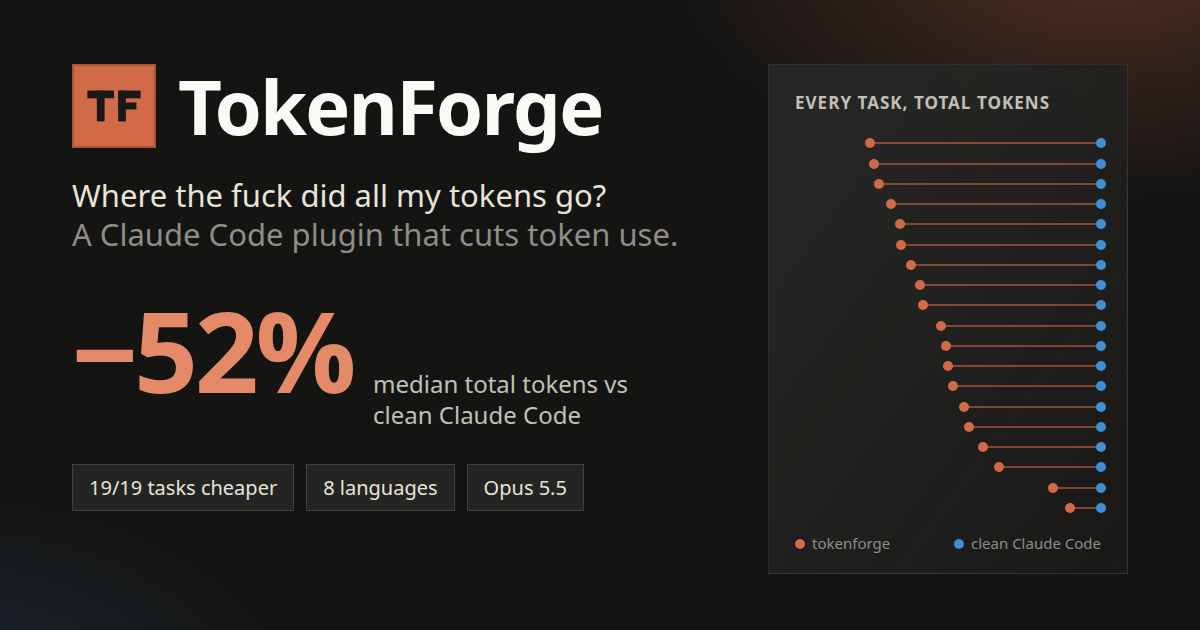
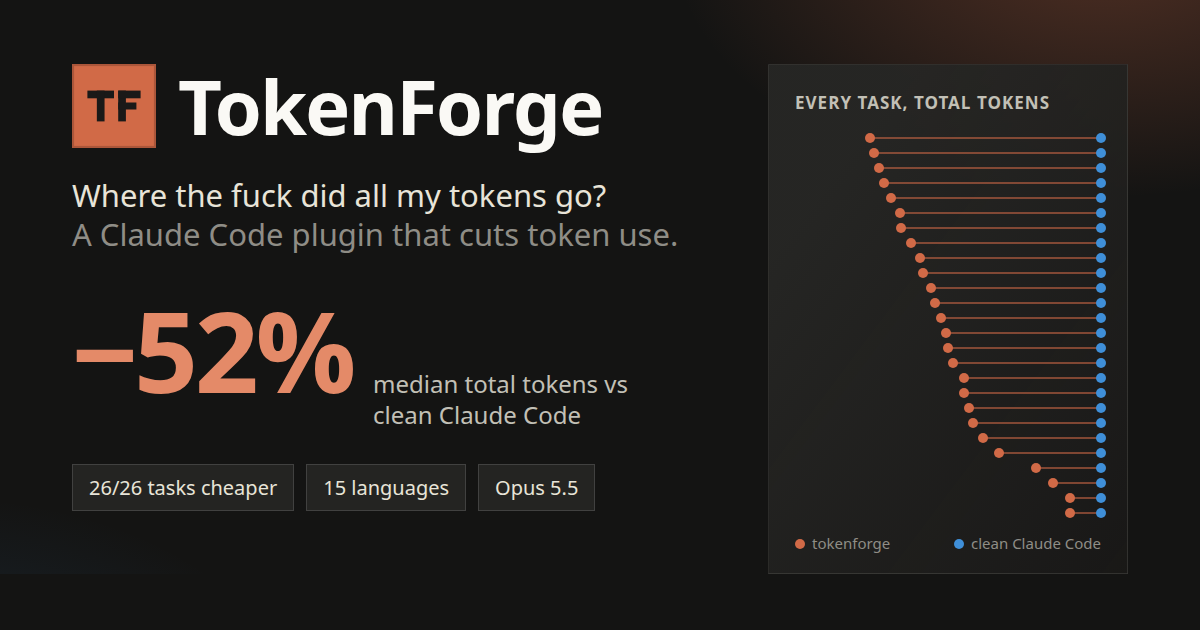
Site: 26 tasks, 16 from-scratch projects in 15 languages; regenerate data and preview image; note excluded Ruby task

Changed region(s): [[0.7092, 0.2111, 0.925, 0.8444], [0.2467, 0.754, 0.4933, 0.8143], [0.0617, 0.754, 0.1233, 0.7841]]

diff --git a/src/pages/home.ts b/src/pages/home.ts
@@ -13,6 +13,7 @@ export function home(view: HTMLElement): void {
   const off = data.lean.find((l) => l.level === 'off')?.tokens ?? 0;
   const bal = data.lean.find((l) => l.level === 'balanced')?.tokens ?? 0;
   const worse = data.tasks.filter((t) => t.qualityDiff < 0);
+  const scratchLangs = new Set(data.tasks.filter((t) => t.group === 'scratch').map((t) => t.language)).size;
 
   view.innerHTML = `
   <header class="phero" aria-labelledby="hero-title">
@@ -75,7 +76,7 @@ export function home(view: HTMLElement): void {
 
   <section class="psec" id="numbers">
     <p class="plabel">Benchmark</p>
-    <h2>Measured on 19 real tasks, not estimated.</h2>
+    <h2>Measured on ${a.tasks} real tasks, not estimated.</h2>
     <div class="pstats">
       <div class="hi"><div class="n">${Math.round(a.medianSavings)}%</div><div class="l">fewer tokens (median)</div></div>
       <div><div class="n">${a.tasksCheaper}/${a.tasks}</div><div class="l">tasks cheaper</div></div>
@@ -92,7 +93,7 @@ export function home(view: HTMLElement): void {
       <div class="chart-box" id="db-existing"></div>
       <details class="data"><summary>Data table: all ${a.tasks} tasks</summary>${resultsTable()}</details>
     </article>
-    <p class="pcap">${a.tasks} tasks, ${a.scratchTasks} from-scratch projects in 8 languages. ${MODEL_NAME} on both sides, checked in every API response. Medians of 1–3 runs per side.${worse.length ? ` Quality was lower on one task (${worse.map((t) => t.label).join(', ')}): every hidden test passes, the design checks score lower.` : ''} <a href="#/benchmark">Method and caveats →</a></p>
+    <p class="pcap">${a.tasks} tasks, ${a.scratchTasks} from-scratch projects in ${scratchLangs} languages. ${MODEL_NAME} on both sides, checked in every API response. Medians of 1–3 runs per side.${worse.length ? ` Quality was lower on one task (${worse.map((t) => t.label).join(', ')}): every hidden test passes, the design checks score lower.` : ''} <a href="#/benchmark">Method and caveats →</a></p>
   </section>
 
   <section class="psec" id="install">

diff --git a/src/pages/benchmark.ts b/src/pages/benchmark.ts
@@ -64,6 +64,7 @@ export function benchmark(view: HTMLElement): void {
         <h2>Caveats, stated plainly</h2>
         <ul>
           <li><strong>Single runs.</strong> Most tasks have one run per side, a few have two or three. Single runs vary by about ±20%. Read per-task numbers as rough and the overall result as solid.</li>
+          <li><strong>One task left out.</strong> A Ruby log analyzer was run once per side and is not in these results: TokenForge used 14% more tokens on it (443k vs 390k), quality 96.25 vs 96.83. The exclusion is listed in <code>bench/benchmark.config.json</code> and the runs are kept.</li>
           <li><strong>Session length.</strong> The benchmark covers sessions of roughly 5–30 calls. Long interactive sessions are not measured yet.</li>
           <li><strong>One quality drop.</strong> On scheduled transfers, every hidden test passes, but TokenForge scores 94 on the structural design checks (9/15), as in every TokenForge run of that task.</li>
           <li><strong>Hooks rewrite some commands.</strong> Raw build and test commands, broad <code>cat</code> dumps and <code>ssh</code> are rewritten to compact tools. See <a href="#/docs/hooks">Hooks</a> for the exact list and escape hatches.</li>
